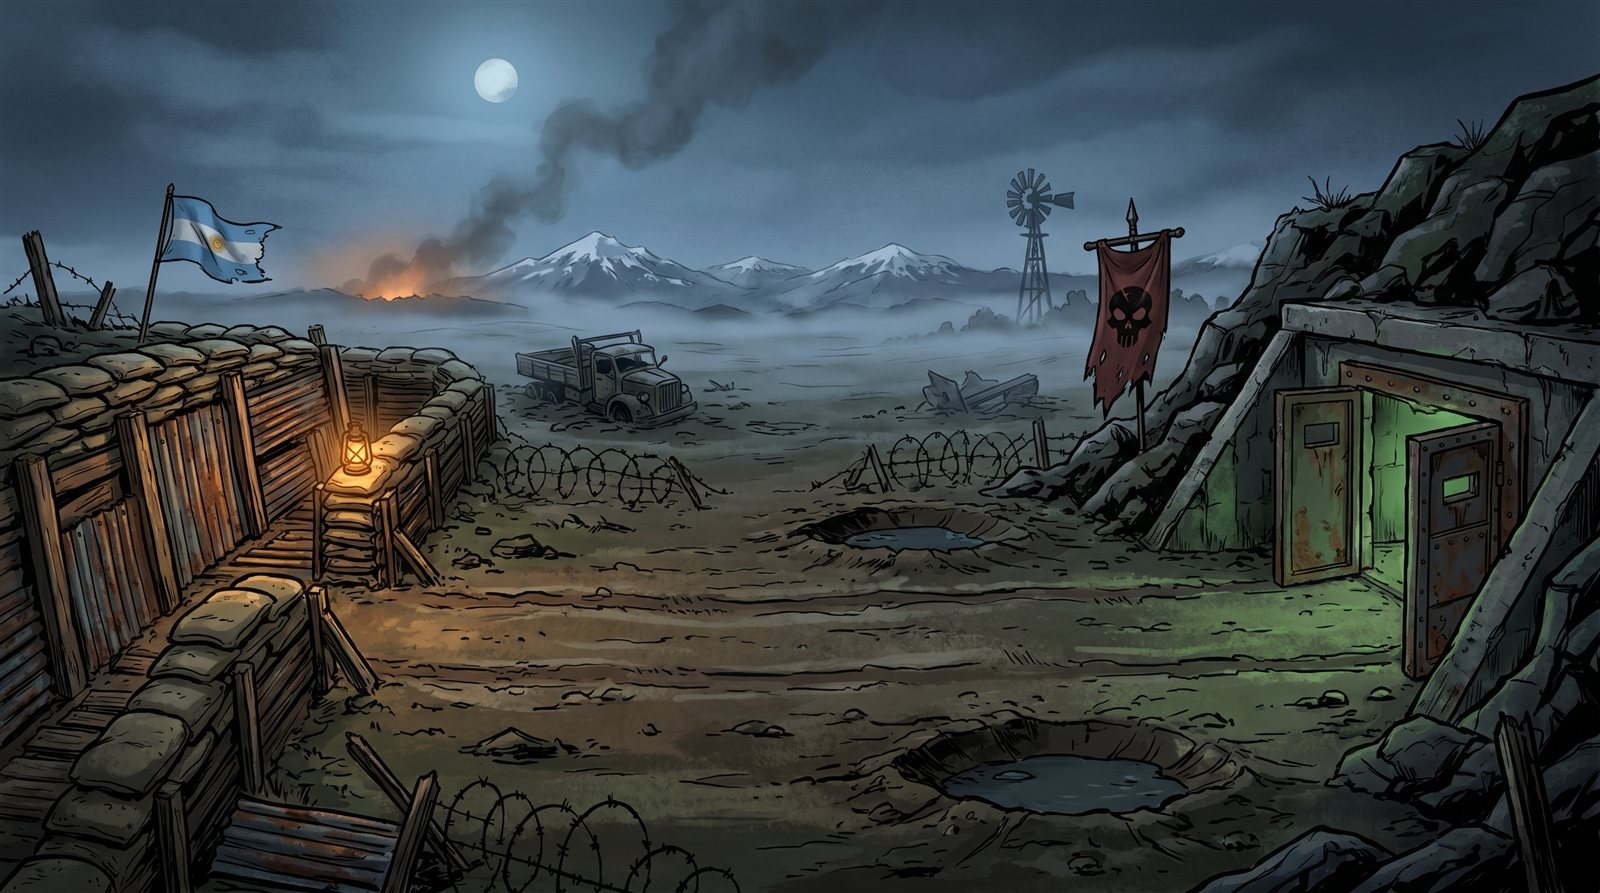
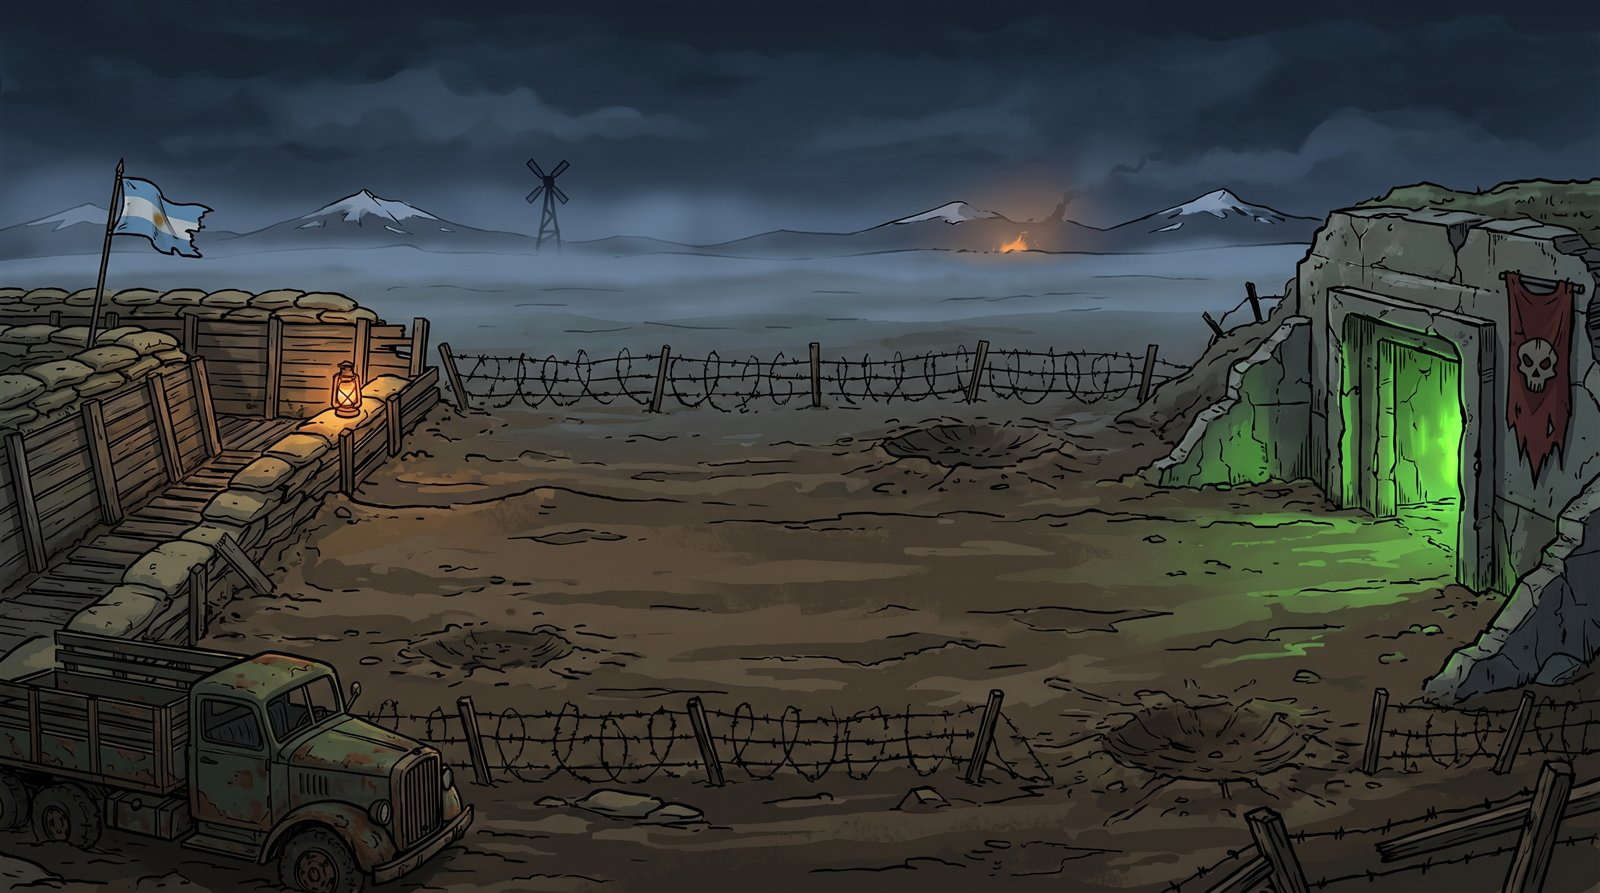
gameplay: flat battlefield, grounded units, frontline + procedural animation
- new flat lane-defense battlefield.jpg (Magnific) so ground reads as lanes
- lanes repositioned onto ground band; per-lane depth scaling (FIELD.laneScale)
- UnitRenderer: feet grounded, walk cycle (bob/sway/squash), idle breathing,
  attack lunge, hit flash+shake, depth-scaled death
- BattleSystem.advance: frontline collision (units queue into a line, push front)

diff --git a/src/rendering/UnitRenderer.ts b/src/rendering/UnitRenderer.ts
@@ -1,7 +1,7 @@
 /**
  * UnitRenderer — sprite, animación y estado visual de un combatiente.
- * Renderiza personajes ilustrados (PNG transparente) con origen en los pies,
- * apoyados sobre la línea del carril. Sprites procedurales como fallback.
+ * Personajes ilustrados (PNG transparente) con los pies sobre la línea del carril,
+ * escala de profundidad por carril y animación procedural (marcha, ataque, golpe, muerte).
  */
 import Phaser from 'phaser';
 import { FIELD } from '../utils/constants';
@@ -9,35 +9,31 @@ import { COLORS } from '../ui/colors';
 import { SpriteFactory } from './SpriteFactory';
 import type { Combatant } from '../systems/BattleSystem';
 
-/** Texturas que son arte ilustrado real (ya miran en la dirección correcta). */
 const REAL_ART = new Set([
   'unit-rifleman', 'unit-heavy-gunner', 'unit-medic', 'unit-engineer', 'unit-sniper', 'unit-flamethrower',
   'enemy-revenant-grunt', 'enemy-runner-corpse', 'enemy-shielded-revenant', 'enemy-exploder',
   'enemy-dead-officer', 'enemy-general-eisenfaust',
 ]);
 
-/** Altura de display (px) por tipo de combatiente. */
-function displayHeightFor(defId: string, faction: 'ally' | 'enemy'): number {
+/** Altura base de display (px) por tipo, antes de la escala de carril. */
+function baseHeightFor(defId: string, faction: 'ally' | 'enemy'): number {
   switch (defId) {
-    case 'general-eisenfaust': return 210; // jefe
-    case 'panzer-corpse': return 120;
-    case 'shielded-revenant': return 104;
-    case 'dead-officer': return 106;
-    case 'exploder': return 86;
-    case 'rot-hound': return 60;
-    case 'barricade': return 76;
-    default: return faction === 'ally' ? 94 : 92;
+    case 'general-eisenfaust': return 188; // jefe
+    case 'panzer-corpse': return 104;
+    case 'shielded-revenant': return 92;
+    case 'dead-officer': return 90;
+    case 'exploder': return 74;
+    case 'rot-hound': return 52;
+    case 'barricade': return 66;
+    default: return faction === 'ally' ? 80 : 80;
   }
 }
-
-/** Desplazamiento de los pies bajo el centro del carril. */
-const FOOT_OFFSET = 16;
 
 export class UnitRenderer {
   private scene: Phaser.Scene;
   private sprite: Phaser.GameObjects.Image;
   private shadow: Phaser.GameObjects.Ellipse;
-  private container: Phaser.GameObjects.Container; // barra de vida + nombre
+  private container: Phaser.GameObjects.Container;
   private hpBarBg: Phaser.GameObjects.Rectangle;
   private hpBarFill: Phaser.GameObjects.Rectangle;
   private hpBarTrail: Phaser.GameObjects.Rectangle;
@@ -46,11 +42,18 @@ export class UnitRenderer {
   private dispW: number;
   private dispH: number;
   private barW: number;
+  private baseScaleX: number;
+  private baseScaleY: number;
+  private colorTint = 0xffffff;
 
   private walkPhase = Math.random() * Math.PI * 2;
+  private idlePhase = Math.random() * Math.PI * 2;
   private trailHpPct = 1;
+  private lastX: number;
+  private lastHp: number;
   private attackFlashTimer = 0;
-  private isAttacking = false;
+  private hitFlashTimer = 0;
+  private spawned = false;
 
   readonly uid: number;
 
@@ -58,20 +61,20 @@ export class UnitRenderer {
     this.scene = scene;
     this.uid = c.uid;
     this.faction = c.faction;
+    this.lastX = c.x;
+    this.lastHp = c.hp;
 
-    const laneY = FIELD.LANES_Y[c.lane];
-    const groundY = laneY + FOOT_OFFSET;
+    const groundY = FIELD.LANES_Y[c.lane];
+    const scale = FIELD.laneScale(c.lane);
 
     const textureKey = SpriteFactory.getTextureKey(c.defId, c.faction);
     const isReal = REAL_ART.has(textureKey);
     const hasTexture = scene.textures.exists(textureKey);
 
-    this.dispH = displayHeightFor(c.defId, c.faction);
+    this.dispH = baseHeightFor(c.defId, c.faction) * scale;
 
-    // Sombra en el piso
-    this.shadow = scene.add.ellipse(c.x, groundY, this.dispH * 0.5, this.dispH * 0.14, 0x000000, 0.32);
+    this.shadow = scene.add.ellipse(c.x, groundY, this.dispH * 0.5, this.dispH * 0.13, 0x000000, 0.3);
 
-    // Sprite principal (origen en los pies)
     if (hasTexture) {
       this.sprite = scene.add.image(c.x, groundY, textureKey);
       const src = scene.textures.get(textureKey).getSourceImage() as HTMLImageElement;
@@ -79,53 +82,50 @@ export class UnitRenderer {
       this.dispW = this.dispH * aspect;
       this.sprite.setDisplaySize(this.dispW, this.dispH);
       if (c.faction === 'ally' && c.colorTint && c.colorTint !== 0xffffff) {
-        this.sprite.setTint(c.colorTint);
+        this.colorTint = c.colorTint;
+        this.sprite.setTint(this.colorTint);
       }
     } else {
       this.sprite = scene.add.image(c.x, groundY, '__DEFAULT');
       this.dispW = this.dispH * 0.55;
       this.sprite.setDisplaySize(this.dispW, this.dispH);
-      this.sprite.setTint(c.faction === 'ally' && c.colorTint && c.colorTint !== 0xffffff ? c.colorTint : c.color);
+      this.colorTint = (c.faction === 'ally' && c.colorTint && c.colorTint !== 0xffffff) ? c.colorTint : c.color;
+      this.sprite.setTint(this.colorTint);
     }
     this.sprite.setOrigin(0.5, 1);
-
-    // Voltear solo los sprites procedurales enemigos (el arte real ya mira a la izquierda)
     if (c.faction === 'enemy' && !isReal) this.sprite.setFlipX(true);
 
-    // Barra de vida + nombre (contenedor sobre la cabeza)
-    this.barW = Math.min(64, Math.max(34, this.dispW * 0.7));
+    this.baseScaleX = this.sprite.scaleX;
+    this.baseScaleY = this.sprite.scaleY;
+
+    // Barra de vida + nombre
+    this.barW = Math.min(60, Math.max(32, this.dispW * 0.7));
     const barH = 5;
-    const headY = groundY - this.dispH - 8;
 
     this.hpBarBg = scene.add.rectangle(0, 0, this.barW + 2, barH, COLORS.hpBg).setOrigin(0.5);
     this.hpBarTrail = scene.add.rectangle(-this.barW / 2, 0, this.barW, barH - 1, COLORS.hpTrail).setOrigin(0, 0.5);
     this.hpBarFill = scene.add.rectangle(-this.barW / 2, 0, this.barW, barH - 1, COLORS.hpGood).setOrigin(0, 0.5);
-
     const els: Phaser.GameObjects.GameObject[] = [this.hpBarBg, this.hpBarTrail, this.hpBarFill];
 
     if (c.faction === 'ally' && c.nickname) {
       const nameText = scene.add.text(0, -12, c.nickname, {
         fontFamily: 'Roboto Condensed, sans-serif',
-        fontSize: '10px',
-        color: '#ffffff',
-        fontStyle: 'bold',
-        stroke: '#000000',
-        strokeThickness: 3,
+        fontSize: '10px', color: '#ffffff', fontStyle: 'bold', stroke: '#000000', strokeThickness: 3,
       }).setOrigin(0.5);
       els.push(nameText);
     }
 
-    this.container = scene.add.container(c.x, headY, els as any);
-
+    this.container = scene.add.container(c.x, groundY - this.dispH - 8, els as any);
     this.applyDepth(groundY);
 
-    // Animación de aparición
+    // Aparición
     this.sprite.setAlpha(0);
-    this.sprite.scaleX *= 0.6;
-    this.sprite.scaleY *= 0.6;
-    const targetSX = this.sprite.scaleX / 0.6;
-    const targetSY = this.sprite.scaleY / 0.6;
-    scene.tweens.add({ targets: this.sprite, alpha: 1, scaleX: targetSX, scaleY: targetSY, duration: 220, ease: 'Back.easeOut' });
+    this.sprite.scaleX = this.baseScaleX * 0.55;
+    this.sprite.scaleY = this.baseScaleY * 0.55;
+    scene.tweens.add({
+      targets: this.sprite, alpha: 1, scaleX: this.baseScaleX, scaleY: this.baseScaleY,
+      duration: 240, ease: 'Back.easeOut', onComplete: () => { this.spawned = true; },
+    });
   }
 
   private applyDepth(groundY: number): void {
@@ -135,43 +135,71 @@ export class UnitRenderer {
   }
 
   update(c: Combatant, delta: number): void {
-    const laneY = FIELD.LANES_Y[c.lane];
-    const groundY = laneY + FOOT_OFFSET;
+    const groundY = FIELD.LANES_Y[c.lane];
+
+    // ── Detección de movimiento (para la animación de marcha) ──
+    const moved = Math.abs(c.x - this.lastX);
+    const isMoving = moved > 0.05 && c.defId !== 'barricade';
+    this.lastX = c.x;
+
+    // ── Golpe recibido ──
+    if (c.hp < this.lastHp - 0.01) {
+      this.hitFlashTimer = 110;
+    }
+    this.lastHp = c.hp;
 
     this.sprite.x = c.x;
     this.shadow.x = c.x;
     this.shadow.y = groundY;
     this.container.x = c.x;
     this.container.y = groundY - this.dispH - 8;
-
     this.applyDepth(groundY);
 
-    // Bobbing de caminata (estructuras no se mueven)
+    // ── Animación procedural ──
     let bob = 0;
-    if (c.defId !== 'barricade') {
-      this.walkPhase += delta * 0.012;
-      bob = Math.abs(Math.sin(this.walkPhase)) * 2.5;
-    }
-    this.sprite.y = groundY - bob;
-
-    if (this.attackFlashTimer > 0) {
-      this.attackFlashTimer -= delta;
-      if (this.attackFlashTimer <= 0) {
-        if (this.faction === 'ally' && c.colorTint && c.colorTint !== 0xffffff) this.sprite.setTint(c.colorTint);
-        else this.sprite.clearTint();
-        this.isAttacking = false;
+    let lean = 0;
+    let squashY = 1;
+    if (this.spawned) {
+      if (isMoving) {
+        this.walkPhase += delta * 0.020;
+        // rebote de paso (los pies tocan el piso en cada paso)
+        bob = Math.abs(Math.sin(this.walkPhase)) * 3.2;
+        // balanceo del cuerpo
+        lean = Math.sin(this.walkPhase) * 4;
+        squashY = 1 + Math.sin(this.walkPhase * 2) * 0.03;
+      } else {
+        // respiración en idle / combate
+        this.idlePhase += delta * 0.004;
+        squashY = 1 + Math.sin(this.idlePhase) * 0.02;
+        bob = 0;
       }
     }
 
-    // Barra de vida
-    const hpPct = Phaser.Math.Clamp(c.hp / c.maxHp, 0, 1);
-    if (hpPct < this.trailHpPct) this.trailHpPct = Phaser.Math.Linear(this.trailHpPct, hpPct, 0.05);
-    else this.trailHpPct = hpPct;
+    // golpe: tinte rojo + temblor
+    let jitter = 0;
+    if (this.hitFlashTimer > 0) {
+      this.hitFlashTimer -= delta;
+      jitter = (Math.random() - 0.5) * 3;
+      this.sprite.setTint(0xff5555);
+    } else if (this.attackFlashTimer > 0) {
+      this.attackFlashTimer -= delta;
+      if (this.attackFlashTimer <= 0) this.sprite.setTint(this.colorTint);
+    } else {
+      this.sprite.setTint(this.colorTint);
+    }
 
+    this.sprite.x = c.x + jitter;
+    this.sprite.y = groundY - bob;
+    this.sprite.angle = lean;
+    this.sprite.scaleY = this.baseScaleY * squashY;
+
+    // ── Barra de vida ──
+    const hpPct = Phaser.Math.Clamp(c.hp / c.maxHp, 0, 1);
+    if (hpPct < this.trailHpPct) this.trailHpPct = Phaser.Math.Linear(this.trailHpPct, hpPct, 0.06);
+    else this.trailHpPct = hpPct;
     this.hpBarFill.width = Math.max(1, this.barW * hpPct);
     this.hpBarTrail.width = Math.max(1, this.barW * this.trailHpPct);
     this.hpBarFill.fillColor = hpPct > 0.6 ? COLORS.hpGood : (hpPct > 0.3 ? COLORS.warn : COLORS.hpBad);
-
     const showBar = hpPct < 1;
     this.hpBarBg.setVisible(showBar);
     this.hpBarFill.setVisible(showBar);
@@ -179,23 +207,18 @@ export class UnitRenderer {
   }
 
   playAttack(): void {
-    if (this.isAttacking) return;
-    this.isAttacking = true;
     this.attackFlashTimer = 90;
     this.sprite.setTint(0xffffff);
-    const recoil = this.faction === 'ally' ? -3 : 3;
-    this.scene.tweens.add({ targets: this.sprite, x: this.sprite.x + recoil, duration: 50, yoyo: true, ease: 'Power2' });
+    const recoil = this.faction === 'ally' ? -4 : 4;
+    this.scene.tweens.add({ targets: this.sprite, x: this.sprite.x + recoil, duration: 60, yoyo: true, ease: 'Power2' });
   }
 
   playDeath(onComplete?: () => void): void {
     const fallDir = this.faction === 'ally' ? -1 : 1;
+    this.sprite.setTint(this.colorTint);
     this.scene.tweens.add({
-      targets: this.sprite,
-      alpha: 0,
-      angle: fallDir * 80,
-      y: this.sprite.y + 8,
-      duration: 380,
-      ease: 'Power2',
+      targets: this.sprite, alpha: 0, angle: fallDir * 82, scaleY: this.baseScaleY * 0.8,
+      y: this.sprite.y + 8, duration: 380, ease: 'Power2',
       onComplete: () => { this.destroy(); onComplete?.(); },
     });
     this.scene.tweens.add({ targets: [this.shadow, this.container], alpha: 0, duration: 280 });

diff --git a/src/utils/constants.ts b/src/utils/constants.ts
@@ -42,9 +42,9 @@ export const FIELD = {
   ENEMY_BASE_X: 896, // centro del bastión enemigo (derecha)
   SPAWN_ALLY_X: 140, // las tropas aparecen pasando la trinchera
   SPAWN_ENEMY_X: 820, // los revenants salen del búnker
-  // 4 carriles repartidos verticalmente en la zona [BATTLEFIELD_TOP+inset, BATTLEFIELD_BOTTOM-inset].
-  // Centro vertical de cada carril (de arriba hacia abajo).
-  LANES_Y: [168, 248, 328, 396] as const,
+  // 4 carriles sobre la franja de suelo plano del fondo (battlefield.jpg).
+  // Centro vertical (pies de la unidad) de cada carril, de atrás (arriba) a adelante (abajo).
+  LANES_Y: [256, 308, 360, 410] as const,
   UNIT_SEPARATION: 28, // px mínimos entre unidades del mismo carril
   /** Centro vertical del campo (para bases y splashes). */
   get CENTER_Y() {
@@ -66,6 +66,14 @@ export const FIELD = {
       }
     }
     return best;
+  },
+  /**
+   * Escala de profundidad por carril (fake 2.5D): los carriles de atrás (índice
+   * bajo, más arriba en pantalla) se ven más chicos; los de adelante, más grandes.
+   */
+  laneScale(lane: number): number {
+    const n = Math.max(1, this.LANES_Y.length - 1);
+    return 0.84 + (lane / n) * 0.22; // 0.84 (atrás) → 1.06 (adelante)
   },
 } as const;
 

diff --git a/src/systems/BattleSystem.ts b/src/systems/BattleSystem.ts
@@ -350,7 +350,17 @@ export class BattleSystem {
   private advance(c: Combatant, dt: number): void {
     const dir = c.faction === 'ally' ? 1 : -1;
     const speed = this.getModifiedMoveSpeed(c);
-    c.x += dir * speed * dt;
+    let newX = c.x + dir * speed * dt;
+
+    // Frontline: no rebasar al compañero de adelante en el mismo carril.
+    // Las unidades se forman en línea y empujan el frente (sensación Warfare 1917).
+    const sep = FIELD.UNIT_SEPARATION;
+    for (const o of this.combatants) {
+      if (o.uid === c.uid || !o.alive || o.faction !== c.faction || o.lane !== c.lane) continue;
+      if (dir > 0 && o.x > c.x) newX = Math.min(newX, o.x - sep);
+      else if (dir < 0 && o.x < c.x) newX = Math.max(newX, o.x + sep);
+    }
+    c.x = newX;
   }
 
   private atEnemyBase(c: Combatant): boolean {